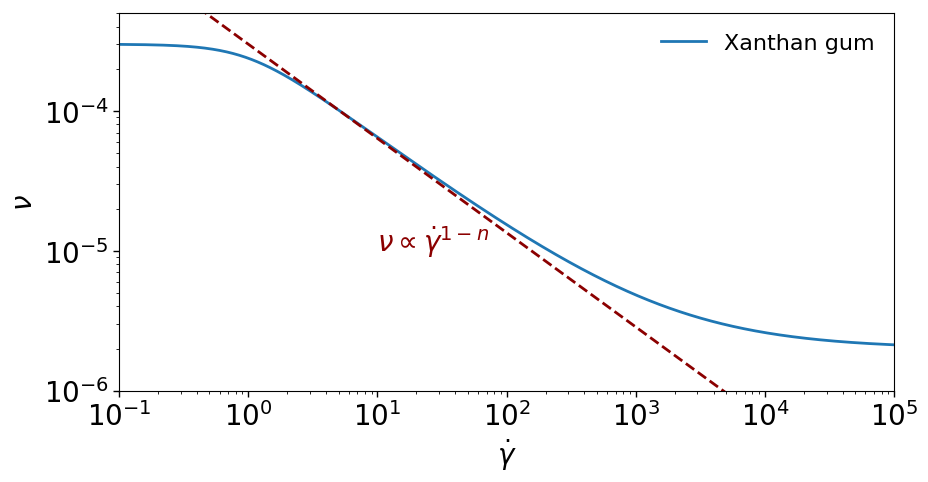
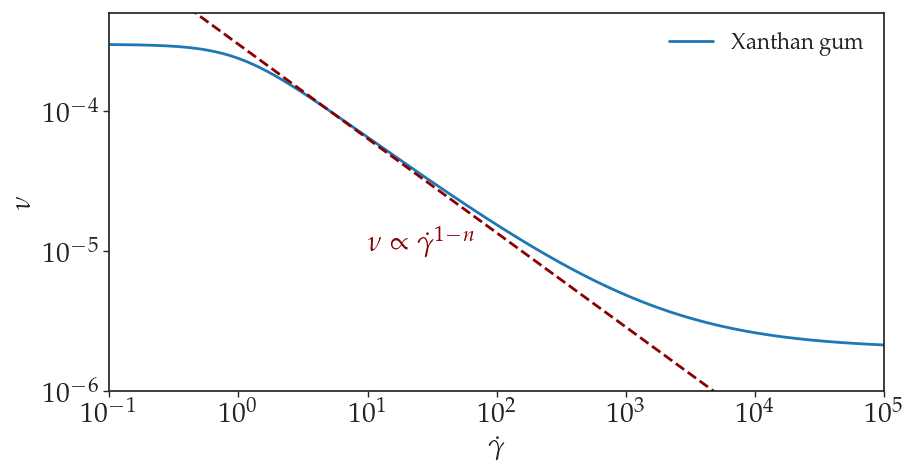
thick lines and bigger legend

diff --git a/BirdCarreau_PowerLaw.py b/BirdCarreau_PowerLaw.py
@@ -32,19 +32,19 @@ ax.set_xlim(0.1,100000)
 ax.set_ylim(1e-6,5e-4)
 ax.set_xscale("log")
 ax.set_yscale("log")
-ax.tick_params(axis='both', direction='out', length=4, width=1, labelsize=20)
-ax.set_xlabel(r'$\dot{\gamma}$',fontsize=20)
-ax.set_ylabel(r'$\nu$',fontsize=20)
+ax.tick_params(axis='both', direction='out', length=4, width=1, labelsize=25)
+ax.set_xlabel(r'$\dot{\gamma}$',fontsize=25)
+ax.set_ylabel(r'$\nu$',fontsize=25)
 
 font = {'family': 'serif',
         'color':  'darkred',
         'weight': 'normal',
-        'size': 20,
+        'size': 25,
         }
-ax.text(10, 1e-5, r'$\nu \propto \dot{\gamma}^{1-n}$', fontdict=font)
-ax.plot(gama,nu,linewidth=2, label='Xanthan gum')
-ax.plot(gama,nu1,linewidth=2,linestyle='--',color='darkred')
-ax.legend(fancybox=True, bbox_to_anchor=(1, 1), ncol=1,frameon=False, fontsize=16)
+ax.text(5, 1e-5, r'$\nu \propto \dot{\gamma}^{1-n}$', fontdict=font)
+ax.plot(gama,nu,linewidth=4, label='Xanthan gum')
+ax.plot(gama,nu1,linewidth=4,linestyle='--',color='darkred')
+ax.legend(fancybox=True, bbox_to_anchor=(1, 1), ncol=1,frameon=False, fontsize=25)
 fig.savefig('BirdCarreau.png',dpi=100, bbox_inches='tight')
 
 ########################################################################
